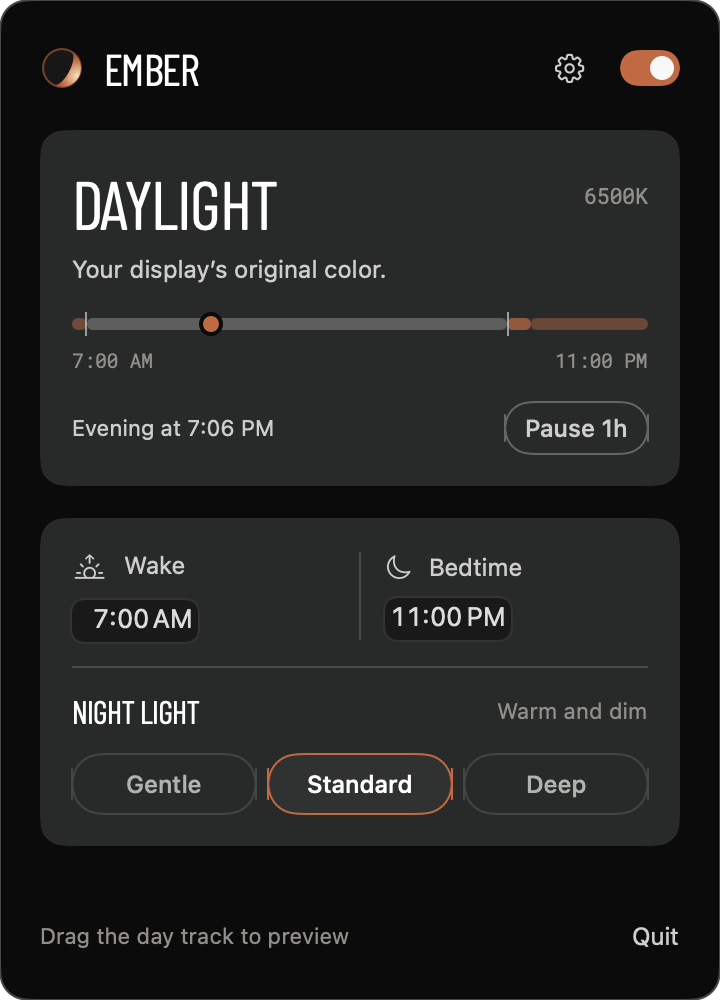
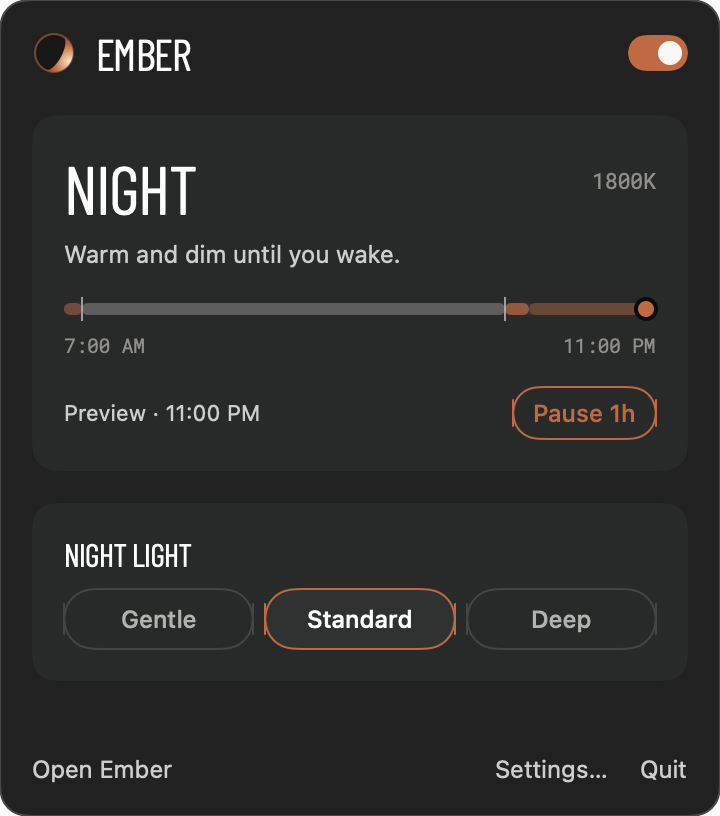
release: prepare Ember 0.5.0 build 6

diff --git a/site/index.html b/site/index.html
@@ -133,8 +133,8 @@ whop.track("page");
       </section>
 
       <section class="panel-proof content-width" id="panel">
-        <div class="panel-copy"><h2>In your menu bar.</h2><p>Set wake and bedtime, choose a night strength, or pause for true color.</p><a class="text-link" href="#product" data-demo-action="photos">Try true color apps <span aria-hidden="true">↑</span></a></div>
-        <figure class="panel-render"><img src="assets/panel.png" width="720" height="1000" loading="lazy" alt="Ember’s Mac menu bar panel showing a night-light preview at 1800K, wake and bedtime controls, three night strengths, and a settings button for sun times, True color apps, and Open at login."><figcaption>Ember 0.4.1 · Actual app</figcaption></figure>
+        <div class="panel-copy"><h2>In your menu bar.</h2><p>Check your light, choose a night strength, or pause for true color. Open Ember to edit your sleep schedule.</p><a class="text-link" href="#product" data-demo-action="photos">Try true color apps <span aria-hidden="true">↑</span></a></div>
+        <figure class="panel-render"><img src="assets/panel.png" width="720" height="816" loading="lazy" alt="Ember’s Mac menu bar panel showing a night-light preview, day track, Pause control, three night strengths, and links to Open Ember and Settings."><figcaption>Ember 0.5.0 · Actual app</figcaption></figure>
       </section>
 
       <section class="faq content-width" id="faq" aria-labelledby="faq-title">
@@ -152,7 +152,7 @@ whop.track("page");
         <img class="app-icon" src="assets/icon.png" width="80" height="80" alt="Ember app icon">
         <h2 id="get-title">Get Ember.</h2>
         <div class="cta-row"><a class="button primary" href="https://whop.com/checkout/ch_vV3fRPAovR4rnHe/" rel="noopener">Get Ember</a><a class="button secondary download-link" id="download" href="/downloads/Ember.dmg" download="Ember.dmg" aria-controls="download-help">Download</a></div>
-        <p class="small">$2.99 · One-time purchase · No subscription</p><p class="small subtle" id="download-note" aria-live="polite">Version 0.4.1 · Apple silicon &amp; Intel · macOS 14+ · Signed and notarized</p>
+        <p class="small">$2.99 · One-time purchase · No subscription</p><p class="small subtle" id="download-note" aria-live="polite">Version 0.5.0 · Apple silicon &amp; Intel · macOS 14+ · Signed and notarized</p>
         <p class="small subtle">Ember changes display color; it does not guarantee better sleep.</p>
         </div>
         <div class="landscape dawn-landscape" aria-hidden="true"><img src="assets/cinematic/dawn.jpg" width="2400" height="1350" alt="" loading="eager" decoding="async" fetchpriority="low"></div>

diff --git a/docs/releases/0.5.0.md b/docs/releases/0.5.0.md
@@ -1,0 +1,32 @@
+# Ember 0.5.0 / build 6
+
+15 October 2026. Cohen authorized commit, integration, notarization, publication and deployment with `/ship`.
+
+Includes the menu-bar mark refinement, retained 408pt native panel, separate main/Settings windows, Dock visibility preference, Settings opening optimization and redundant location-publication guard. Display curves and saved schedule semantics are unchanged.
+
+## Verified release artifact
+
+- `scripts/package.sh`: universal Release build passed; `lipo` reports `x86_64 arm64`.
+- Developer ID signature, Hardened Runtime and location resource entitlement verified by the package script.
+- Apple notarization accepted: `8e81c68b-02cd-4b3b-8642-83ddfa297c2d`.
+- App and DMG stapled; DMG staple validation passed. Both app and DMG passed Gatekeeper as Notarized Developer ID.
+- Canonical installer: `site/downloads/Ember.dmg`.
[1 lines of base64/hex data omitted]
+- Local copy: `dist/Ember-0.5.0.dmg`; app: `build/release/Build/Products/Release/Ember.app`.
+
+The public version and actual-app screenshot now describe 0.5.0. The interactive website demonstration remains explicitly illustrative.
+
+## Checks
+
+- `xcodegen generate` and final Debug test run with `TEST_RUNNER_EMBER_BENCHMARK=1`: **74 tests, zero failures**. Log: `build/ship-0.5.0/test.log`.
+- JavaScript syntax, packaging shell syntax and diff whitespace checks passed.
+- Gitleaks git-history/staged and working-tree scans passed. Final `gitleaks dir site --redact --no-banner` passed.
+- Wrangler authentication confirmed the existing The Mecca account and Worker configuration `ember`.
+- Ego Lite inspected the local release site at 1280px and 390px: the new 720 × 816px app screenshot loads, version reads 0.5.0, and neither viewport overflows. Desktop and phone screenshot sections were visually inspected.
+- Local demo switched to Night (1800K). Browser confirmation of Pause was interrupted by invalidated element references and is not recorded as passed here.
+
+## Publication status
+
+The Cloudflare dry run was rejected by the local PreToolUse shell hook: “Deploy/publish flagged. State the exact target and wait for Cohen's approval.” Target: Worker `ember` at `https://ember.cohencool.workers.dev`. The build, signing and notarization are complete; production deployment and remote installer-hash verification remain pending that hook confirmation. No deployment was attempted after the rejection.
+
+Unverified: installed-release runtime on Intel/macOS 14, physical display/location/login flows, full VoiceOver speech and physical-frame performance. Existing LocationService Swift 6 migration warnings remain. The installed app was not replaced. Unrelated `.redesign` QA artifacts were preserved.

diff --git a/README.md b/README.md
@@ -4,7 +4,7 @@ Mac menu bar app that changes screen color with the day. Cool light in the morni
 
 **Download:** https://ember.cohencool.workers.dev
 
-Ember 0.4.1 is signed and notarized for Apple silicon and Intel Macs running macOS 14 or later.
+Ember 0.5.0 is signed and notarized for Apple silicon and Intel Macs running macOS 14 or later.
 
 Open the DMG, drag Ember into Applications, and open it there. First-launch setup offers a recommended profile: wake at 7 AM, bed at 11 PM, Standard night light, and true color apps on. Choose Use recommended to start, or Customize to set your own schedule. Location permission is requested when setup opens; you can decline. Open at login is optional. Use the menu bar for Pause/Resume, day preview and night strength. Open Ember for your sleep schedule; Settings has location, true color apps, login and Dock visibility. Right-click or Option-click the menu-bar mark for a compact menu. Adjust night strength anytime from the menu bar; choose Gentle if Standard makes reading uncomfortable. Pause restores true color for an hour. Photos and other supported color apps restore true color while frontmost.
 
